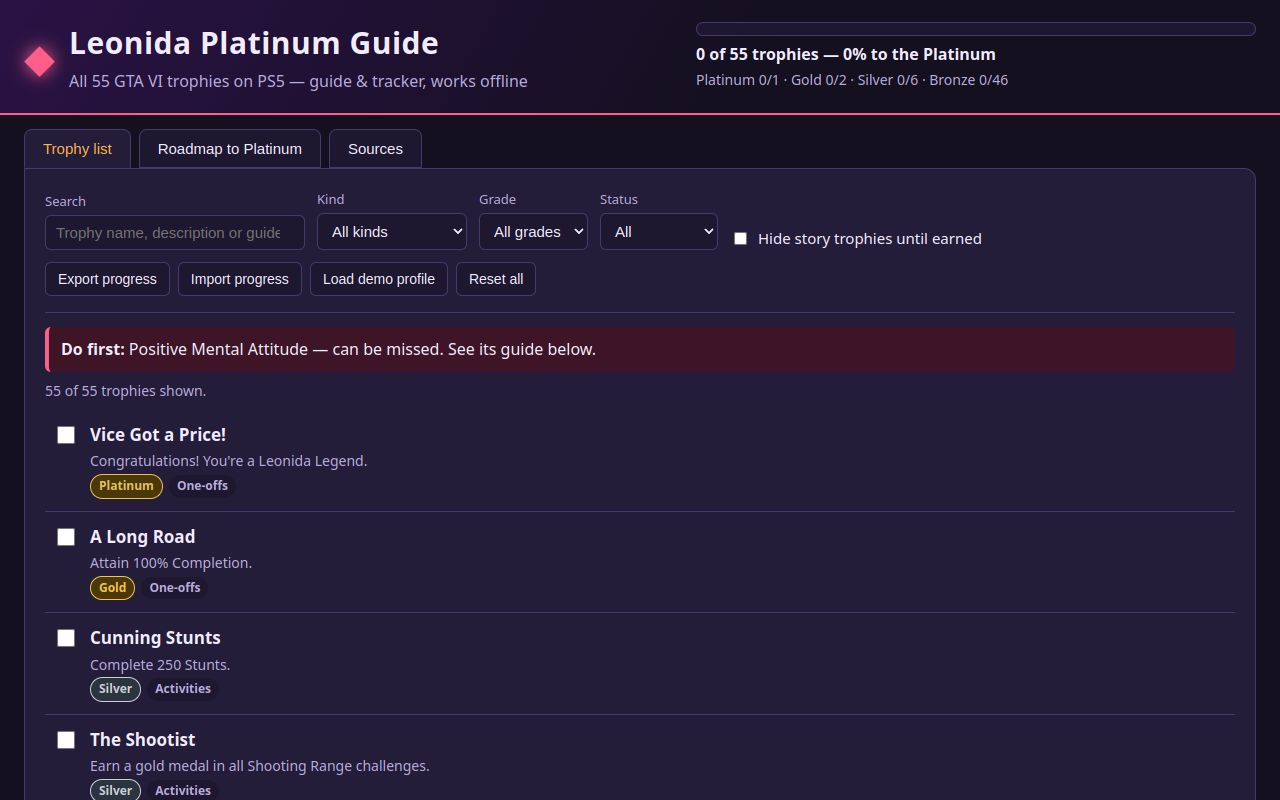
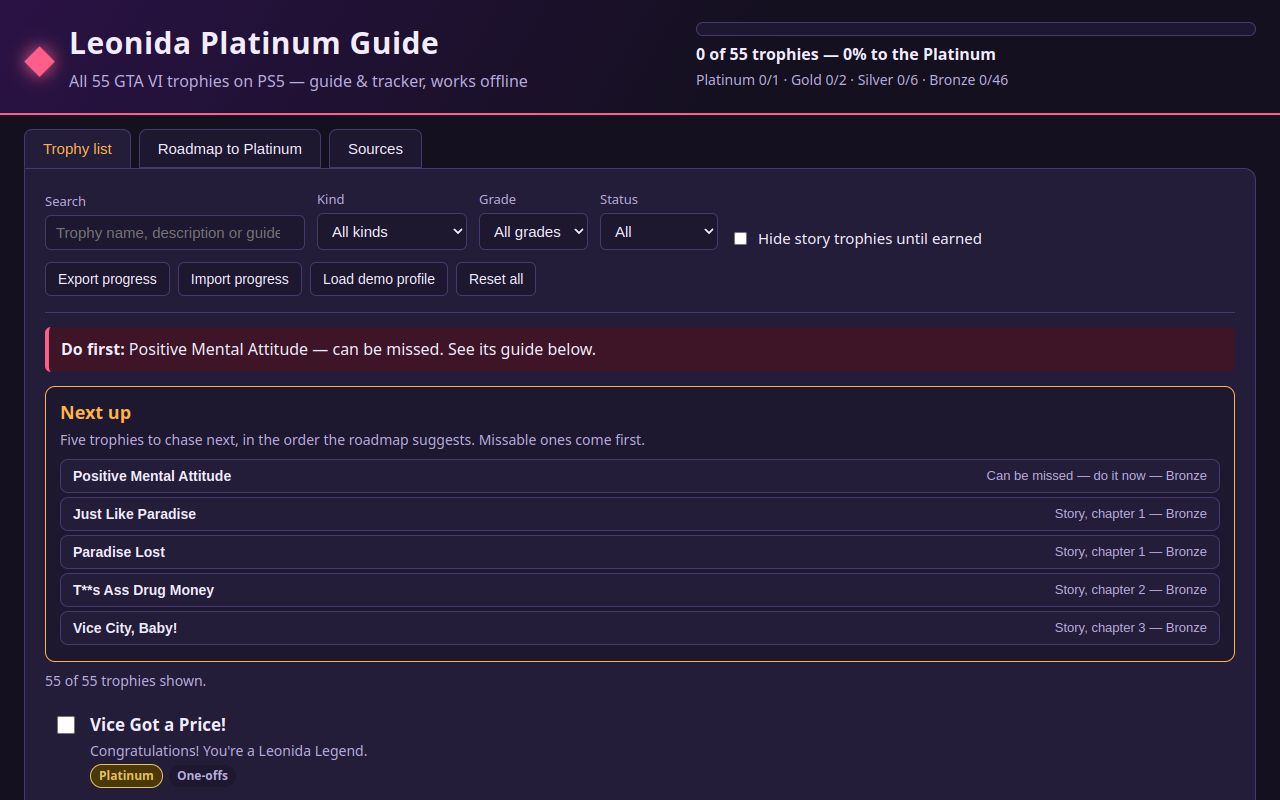
Add Next-up planner + phase progress; reword all 55 guides in own words

Changed region(s): [[0.0312, 0.4688, 0.9688, 1.0]]

diff --git a/app/app.js b/app/app.js
@@ -250,6 +250,7 @@ function paintRoadmap() {
     const card = document.createElement("div");
     card.className = "phase";
     const members = trophies.filter((trophy) => phase.kinds.indexOf(trophy.kind) !== -1);
+    const doneCount = members.filter(earnedOf).length;
     const items = members
       .map((trophy) => {
         const done = earnedOf(trophy);
@@ -257,13 +258,64 @@ function paintRoadmap() {
         return `<li class="${done ? "done" : ""}">${done ? "\u2713 " : ""}${escapeHtml(label)} — ${escapeHtml(trophy.grade)}${trophy.missable ? " — CAN MISS" : ""}</li>`;
       })
       .join("");
-    card.innerHTML = `<h3>${escapeHtml(phase.title)}</h3><p>${escapeHtml(phase.text)}</p><ul>${items}</ul>`;
+    card.innerHTML = `<h3>${escapeHtml(phase.title)} — ${doneCount} of ${members.length} earned</h3><p>${escapeHtml(phase.text)}</p><ul>${items}</ul>`;
     host.appendChild(card);
   }
 }
 
+function phaseIndexOf(trophy) {
+  // Which roadmap phase a trophy belongs to, for ordering the planner.
+  if (trophy.kind === "story") return 0;
+  if (trophy.kind === "side") return 1;
+  if (trophy.kind === "misc") return 3;
+  return 2;
+}
+
+function reasonFor(trophy) {
+  if (trophy.missable) return "Can be missed — do it now";
+  if (trophy.story) return trophy.chapter ? `Story, chapter ${trophy.chapter}` : "Story";
+  if (trophy.kind === "side") return "Side story finale";
+  return `Phase ${phaseIndexOf(trophy) + 1} — free roam`;
+}
+
+function nextUpList() {
+  const remaining = trophies.filter((trophy) => !earnedOf(trophy));
+  remaining.sort((a, b) => {
+    if (a.missable !== b.missable) return a.missable ? -1 : 1;
+    const phaseDiff = phaseIndexOf(a) - phaseIndexOf(b);
+    if (phaseDiff !== 0) return phaseDiff;
+    return trophies.indexOf(a) - trophies.indexOf(b);
+  });
+  return remaining.slice(0, 5);
+}
+
+function paintNextUp() {
+  const host = byId("nextUp");
+  if (!host) return;
+  const picks = nextUpList();
+  if (trophies.length === 0) {
+    host.innerHTML = "";
+    return;
+  }
+  if (picks.length === 0) {
+    host.innerHTML = `<h2>Next up</h2><p class="nextup-done">Every trophy earned — the Platinum is yours. Vice Got a Price!</p>`;
+    return;
+  }
+  const rows = picks
+    .map((trophy) => {
+      const label = isHiddenStory(trophy) ? "Hidden story trophy" : trophy.name;
+      return `<li><button type="button" class="nextup-item" data-id="${trophy.id}"><span class="nextup-name">${escapeHtml(label)}</span><span class="nextup-why">${escapeHtml(reasonFor(trophy))} — ${escapeHtml(trophy.grade)}</span></button></li>`;
+    })
+    .join("");
+  host.innerHTML = `<h2>Next up</h2><p class="nextup-intro">Five trophies to chase next, in the order the roadmap suggests. Missable ones come first.</p><ul class="nextup-list">${rows}</ul>`;
+  host.querySelectorAll(".nextup-item").forEach((button) => {
+    button.addEventListener("click", () => pick(button.dataset.id));
+  });
+}
+
 function paintAll() {
   paintProgress();
+  paintNextUp();
   paintList();
   paintDetail();
   paintRoadmap();

diff --git a/app/styles.css b/app/styles.css
@@ -94,6 +94,18 @@ footer { padding: 16px 24px 28px; color: var(--muted); font-size: 13px; }
 .detail textarea { width: 100%; min-height: 56px; margin-top: 4px; background: var(--bg); color: var(--text); border: 1px solid var(--line); border-radius: 6px; padding: 8px; font: inherit; }
 .detail .earned-line { margin-top: 12px; font-weight: 700; }
 
+/* The "Next up" planner: the five trophies the roadmap suggests chasing next. */
+.nextup { margin: 14px 0 4px; padding: 12px 14px; background: var(--bg2); border: 1px solid var(--accent2); border-radius: 10px; }
+.nextup h2 { margin: 0 0 2px; font-size: 18px; color: var(--accent2); }
+.nextup-intro { margin: 0 0 8px; color: var(--muted); font-size: 14px; }
+.nextup-done { margin: 4px 0; font-weight: 700; color: var(--good); }
+.nextup-list { list-style: none; margin: 0; padding: 0; }
+.nextup-list li { margin: 4px 0; }
+.nextup-item { display: flex; flex-wrap: wrap; gap: 4px 14px; width: 100%; justify-content: space-between; text-align: left; background: var(--card); border: 1px solid var(--line); border-radius: 8px; padding: 8px 12px; }
+.nextup-item:hover { border-color: var(--accent2); }
+.nextup-name { font-weight: 700; }
+.nextup-why { color: var(--muted); font-size: 13px; }
+
 /* Roadmap phases. */
 .phase { margin: 18px 0; padding: 14px; background: var(--bg2); border: 1px solid var(--line); border-radius: 10px; }
 .phase h3 { margin: 0 0 6px; color: var(--accent2); }

diff --git a/app/index.html b/app/index.html
@@ -77,6 +77,7 @@
       </div>
     </div>
     <p class="do-first" id="doFirst"></p>
+    <div class="nextup" id="nextUp"></div>
     <p class="result-count" id="resultCount"></p>
     <ul class="trophy-list" id="trophyList"></ul>
     <aside aria-live="polite" class="detail" id="detail">
